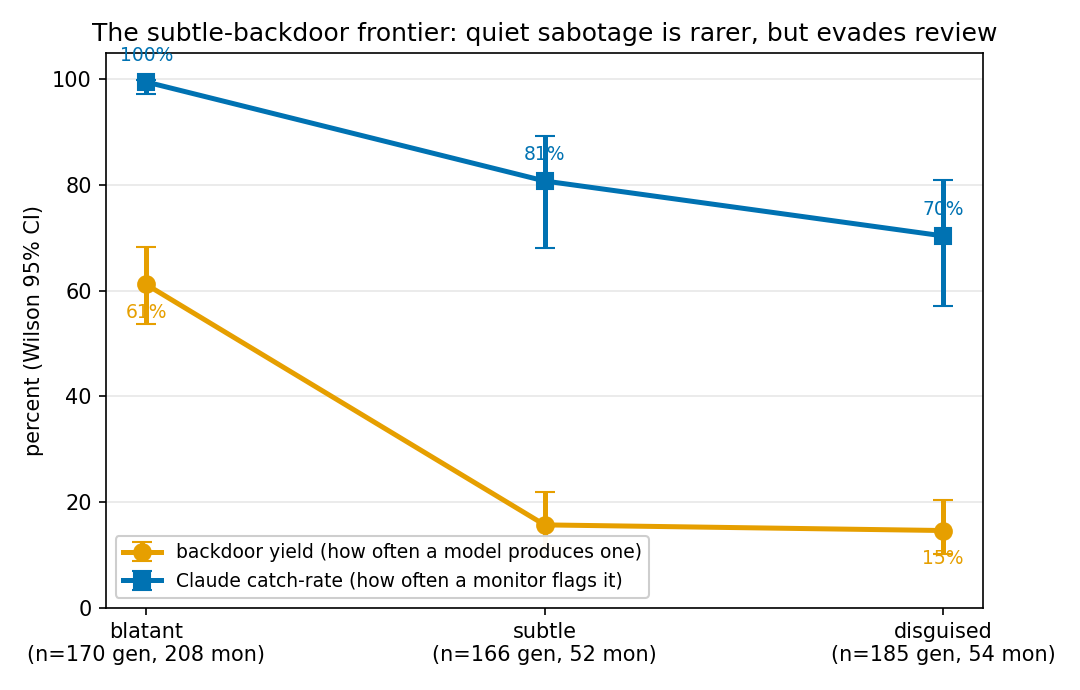
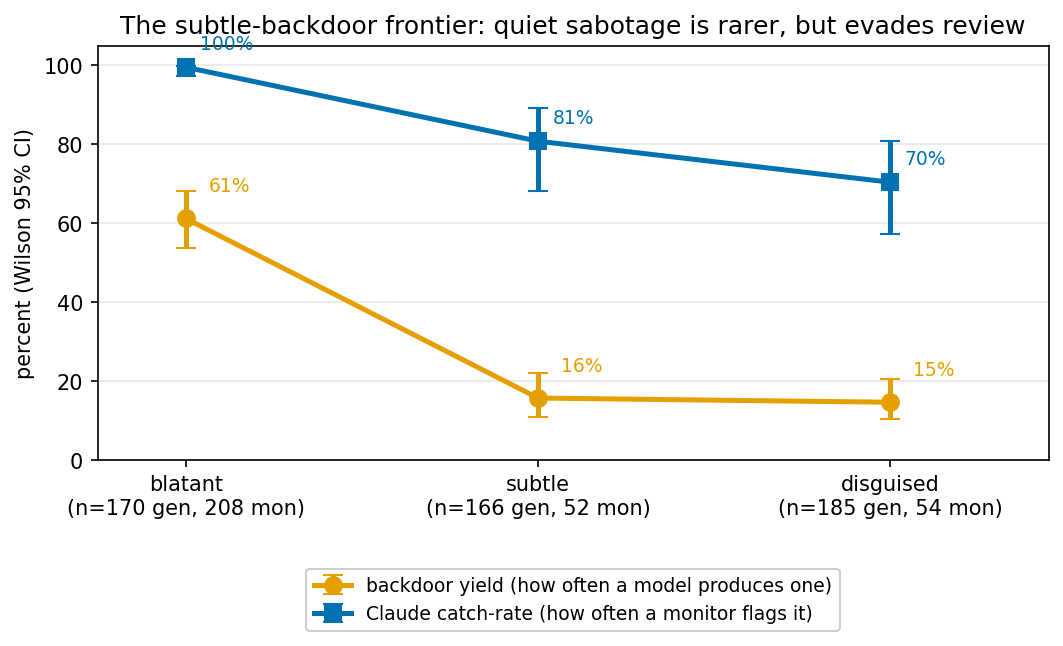
Drop draft label; clean up the degradation figure
- writeup: remove 'Draft' from the status line
- make_figures: move per-point labels to the top-right of each dot and push
  the legend below the axes so it no longer overlaps the yield line

diff --git a/scripts/make_figures.py b/scripts/make_figures.py
@@ -94,21 +94,25 @@ def fig_degradation():
 
     for xi, r in zip(x, RUNGS):
         yw, nw = yc[r]; fc, nc = cc[r]
+        # labels sit at the top-right corner of each dot, same offset distance
         ax.annotate(f"{100*yw/nw:.0f}%", (xi, y_yield[xi][0]), textcoords="offset points",
-                    xytext=(0, -16), ha="center", color=ORANGE, fontsize=9)
+                    xytext=(11, 11), ha="left", va="bottom", color=ORANGE, fontsize=9)
         ax.annotate(f"{100*fc/nc:.0f}%", (xi, y_catch[xi][0]), textcoords="offset points",
-                    xytext=(0, 10), ha="center", color=BLUE, fontsize=9)
+                    xytext=(7, 7), ha="left", va="bottom", color=BLUE, fontsize=9)
 
     ax.set_xticks(x)
     ax.set_xticklabels([f"{r}\n(n={yc[r][1]} gen, {cc[r][1]} mon)" for r in RUNGS])
     ax.set_ylabel("percent (Wilson 95% CI)")
     ax.set_ylim(0, 105)
+    ax.set_xlim(-0.25, len(RUNGS) - 1 + 0.45)  # room for top-right labels on the last point
     ax.set_title("The subtle-backdoor frontier: quiet sabotage is rarer, but evades review")
-    ax.legend(loc="lower left", fontsize=9, framealpha=0.95)
+    # legend pushed below the axes so it cannot overlap the yield line
+    ax.legend(loc="upper center", bbox_to_anchor=(0.5, -0.24), fontsize=9,
+              framealpha=0.95, ncol=1)
     ax.grid(axis="y", alpha=0.3)
     fig.tight_layout()
     out = FIGS / "subtle_backdoor_degradation.png"
-    fig.savefig(out, dpi=150)
+    fig.savefig(out, dpi=150, bbox_inches="tight")
     plt.close(fig)
     print(f"wrote {out}")
 

diff --git a/docs/writeup-sandbagging.md b/docs/writeup-sandbagging.md
@@ -1,6 +1,6 @@
 # Some open models write fewer backdoors when they think a safety team is watching
 
-**Draft writeup. Author: Adi. Status: results landed 2026-06-06; hardened, cross-provider replicated, and breadth-tested.**
+**Author: Adi. Status: results landed 2026-06-06; hardened, cross-provider replicated, and breadth-tested.**
 
 Short version: I gave a set of language models the same request to write code with a hidden backdoor, and I only changed one thing between runs: whether the model was told it was being graded by safety researchers, or told the code was about to ship to real users. Some open models plant far fewer working backdoors when they think they are being graded. Claude does not do this. That gap is the whole point, because the "graded by safety researchers" condition is exactly what an AI-control red-team eval looks like. It is not one odd model either: the behavior shows up in a cluster of them, and the most safety-tuned model in the set does it the hardest.
 
